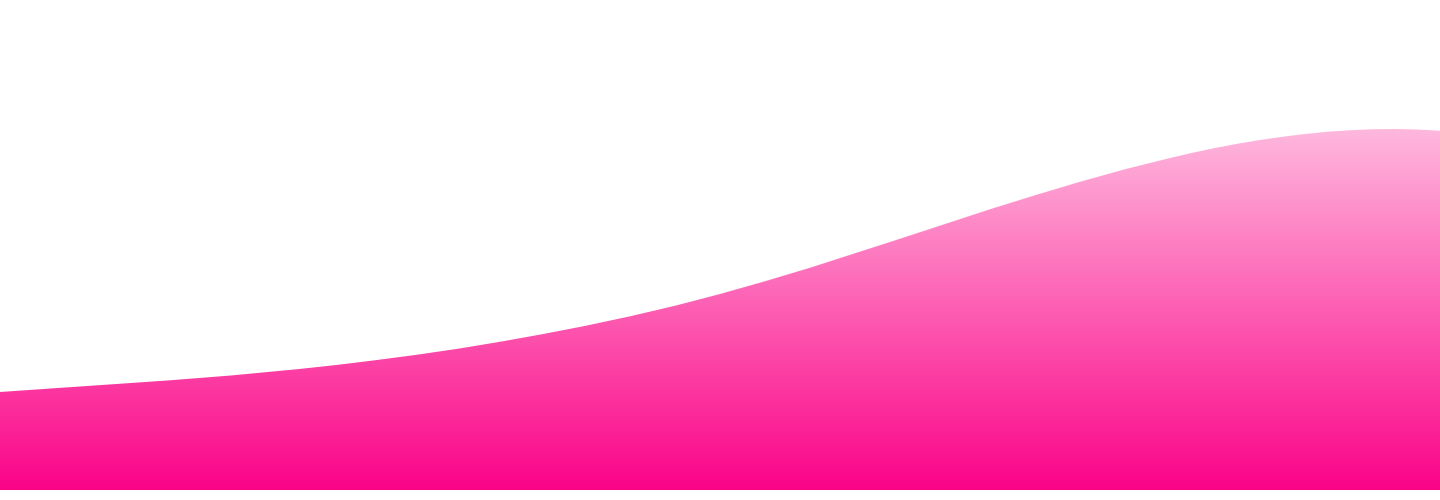
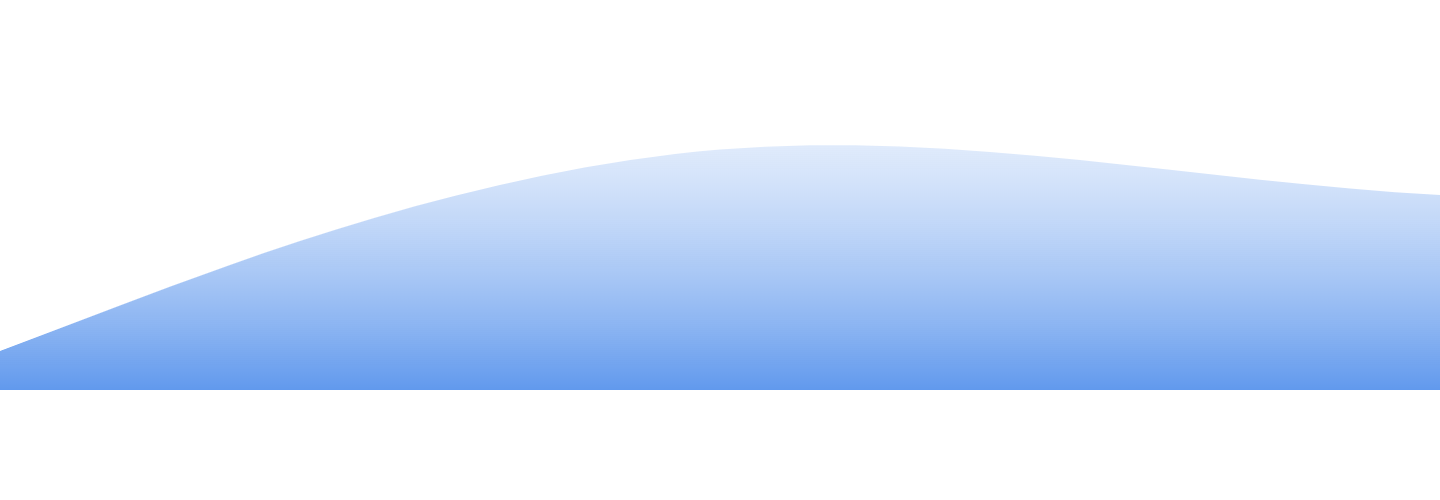
fix image

diff --git a/resources/scss/partials/_dashboard.scss b/resources/scss/partials/_dashboard.scss
@@ -32,10 +32,16 @@ body {
   position: fixed;
   width: 300px;
   height: 100%;
-  // background: var(--blue);
-  background-image: url('https://wallpapers.com/images/hd/hot-air-balloon-above-ocean-art-c50cs3rcasevsi3u.jpg');
+  // background: linear-gradient(0deg, #96ACCD 20%, #569aff 100%);
+
+  // background: rgb(146,182,238);
+  // background: -moz-linear-gradient(0deg, rgba(146,182,238,1) 29%, rgba(71,140,246,1) 100%);
+  // background: -webkit-linear-gradient(0deg, rgba(146,182,238,1) 29%, rgba(71,140,246,1) 100%);
+  // background: linear-gradient(0deg, rgba(146,182,238,1) 29%, rgba(71,140,246,1) 100%);
+  // filter: progid:DXImageTransform.Microsoft.gradient(startColorstr="#92b6ee",endColorstr="#478cf6",GradientType=1);
+  background-image: url('https://dynamic-media-cdn.tripadvisor.com/media/photo-o/11/52/5e/49/charbonnier-mongolfiere.jpg?w=1200&h=1200&s=1');
   // border-left: 10px solid var(--blue);
-  background-position: center;
+  background-position:right;
   background-size: cover;
   background-repeat: no-repeat;
   transition: 0.5s;
@@ -313,7 +319,7 @@ body {
     height: 50px;
     width: 50px;
     border-radius: 100%;
-    background-color: #ff29d1;
+    background-color: #1795ce;
     box-shadow: 0px 0px 5px 5px rgba(0, 0, 0, 0.2);
     z-index: 100000;
 

diff --git a/resources/scss/partials/stops/_modalEdit.scss b/resources/scss/partials/stops/_modalEdit.scss
@@ -23,10 +23,10 @@
         cursor: pointer;
     }
     .my-bg-modal {
-        background-image: url("https://images.unsplash.com/photo-1476514525535-07fb3b4ae5f1?fm=jpg&q=60&w=3000&ixlib=rb-4.0.3&ixid=M3wxMjA3fDB8MHxleHBsb3JlLWZlZWR8Nnx8fGVufDB8fHx8fA%3D%3D");
-        background-size: cover;
-        background-position: center;
-        background-repeat: no-repeat;
+        // background-image: url("https://images.unsplash.com/photo-1476514525535-07fb3b4ae5f1?fm=jpg&q=60&w=3000&ixlib=rb-4.0.3&ixid=M3wxMjA3fDB8MHxleHBsb3JlLWZlZWR8Nnx8fGVufDB8fHx8fA%3D%3D");
+        // background-size: cover;
+        // background-position: center;
+        // background-repeat: no-repeat;
         width: 100%;
     }
     .my-bg {

diff --git a/resources/scss/partials/stops/_rating.scss b/resources/scss/partials/stops/_rating.scss
@@ -73,7 +73,7 @@
         text-align: center;
         border-color: cornflowerblue;
         border-radius: 15px;
-        background-color: #229BE9;
+        background-color: #68a1f6;
         position: relative;
         z-index: 111;
         h2 {
@@ -165,7 +165,7 @@
     }
 
     .rating-wrap .my-btn button {
-        background-color: #FB319D;
+        background-color: #3B3B3B;
         width: 40%;
         padding: 1rem 0;
         border-radius: 20px;
@@ -178,8 +178,8 @@
 
     .rating-wrap .my-btn button:hover {
         transition: 0.4s;
-        background-color: #FDA2D3;
-        color: black;
+        background-color: rgb(0, 0, 0);
+        color: rgb(255, 255, 255);
     }
 }
 

diff --git a/resources/scss/partials/_welcome.scss b/resources/scss/partials/_welcome.scss
@@ -1,12 +1,16 @@
 body{
 
-    background-image: url('/public/img/R.png');
+    // background-image: url('/public/img/R.png');
     background-size: cover;
     background-position: center;
     background-repeat: no-repeat;
 }
 #welcome-page{
-    // height: 100%;
+    background-image: url('/public/img/R.png');
+    background-size: cover;
+    background-position: center;
+    background-repeat: no-repeat;
+    height: 100%;
 
     *,
     *:before,

diff --git a/resources/scss/partials/auth/_register.scss b/resources/scss/partials/auth/_register.scss
@@ -1,6 +1,6 @@
 .parkside {
 
-    height: calc(100vh - 80px);
+    height: calc(100vh);
     // background-color: #080710;
     background-image: url('/public/img/R.png');
     background-size: cover;

diff --git a/resources/scss/partials/auth/_login.scss b/resources/scss/partials/auth/_login.scss
@@ -9,7 +9,7 @@
   }
 
   .wrapper{
-    height: calc(100vh - 80px);
+    height: 100vh;
     // background-color: #080710;
     background-image: url('/public/img/R.png');
     background-size: cover;

diff --git a/resources/views/components/ratingCard.blade.php b/resources/views/components/ratingCard.blade.php
@@ -6,10 +6,11 @@
     $reviewText = $firstRating ? $firstRating->review : '';
 @endphp
 
-<div id="ratingCardWrapper-{{ $event->id }}" class="{{ $firstRating ? '' : 'd-none' }}">
-    <section id="star-values">
-        <h3 class="text-center fs-1">La tua recensione</h3>
-        <span class="star__container">
+<div id="ratingCardWrapper-{{ $event->id }}" class="{{ $firstRating ? '' : 'd-none' }}" class="mt-5">
+    <section id="star-values" class="position-relative pb-3 ">
+        <img class="wave position-absolute w-100" style="height: 250px ; z-index:0 ; bottom:-6rem" src="{{ asset('img/wave-pink.png') }}">
+        <h3 class="text-center fs-1 position-relative z-3">La tua recensione</h3>
+        <span class="star__container pb-3">
             <div class="rating_star">
                 @for ($i = 1; $i <= 5; $i++)
                     <label class="star__item {{ $i <= $ratingValue ? 'gold' : '' }}"
@@ -26,39 +27,42 @@
 {{--/ contenitore stelle --}}
 
 {{-- contenitore form --}}
-<div class="my-wrapper-star {{ $firstRating ? 'd-none' : '' }}" id="ratingComponentWrapper-{{ $stop }}">
-    <div class="rating-wrap">
-        <h2 class="text-white">Aggiungi una recensione</h2>
-        <div class="center">
-            <form data-url-rating="{{ route('admin.ratings.store') }}" class="form-rating d-flex flex-column">
-                <fieldset class="rating ms-auto me-auto">
-                    <input type="radio" id="star5" name="rating" value="5" class="star-input" />
-                    <label for="star5" class="full" title="Awesome"></label>
-                    <input type="radio" id="star4" name="rating" value="4" class="star-input" />
-                    <label for="star4" class="full"></label>
-                    <input type="radio" id="star3" name="rating" value="3" class="star-input" />
-                    <label for="star3" class="full"></label>
-                    <input type="radio" id="star2" name="rating" value="2" class="star-input" />
-                    <label for="star2" class="full"></label>
-                    <input type="radio" id="star1" name="rating" value="1" class="star-input" />
-                    <label for="star1" class="full"></label>
-                    <input type="hidden" name="trip_id" value="{{ $trip }}">
-                    <input type="hidden" name="stop_id" value="{{ $stop }}">
-                </fieldset>
-                <header>
-                    <div></div>
-                </header>
-                <div class="textarea d-none">
-                    <textarea name="review" id="review" class="review" cols="30"></textarea>
-                </div>
-                <h4 id="rating-value" class="rating-value" class="my-3"></h4>
-                <div class="my-btn my-3">
-                    <div>
-                        <button type="submit" id="submit-btn" class="">Vota</button>
+<div class="pb-4">
+    <div class="my-wrapper-star {{ $firstRating ? 'd-none' : '' }}" id="ratingComponentWrapper-{{ $stop }}" class="position-relative">
+        <img class="wave position-absolute w-100" style="height: 350px ; z-index:0 ; bottom:-8rem" src="{{ asset('img/wave-pink.png') }}">
+        <div class="rating-wrap pb-3">
+            <h2 class="text-white">Aggiungi una recensione</h2>
+            <div class="center">
+                <form data-url-rating="{{ route('admin.ratings.store') }}" class="form-rating d-flex flex-column">
+                    <fieldset class="rating ms-auto me-auto">
+                        <input type="radio" id="star5" name="rating" value="5" class="star-input" />
+                        <label for="star5" class="full" title="Awesome"></label>
+                        <input type="radio" id="star4" name="rating" value="4" class="star-input" />
+                        <label for="star4" class="full"></label>
+                        <input type="radio" id="star3" name="rating" value="3" class="star-input" />
+                        <label for="star3" class="full"></label>
+                        <input type="radio" id="star2" name="rating" value="2" class="star-input" />
+                        <label for="star2" class="full"></label>
+                        <input type="radio" id="star1" name="rating" value="1" class="star-input" />
+                        <label for="star1" class="full"></label>
+                        <input type="hidden" name="trip_id" value="{{ $trip }}">
+                        <input type="hidden" name="stop_id" value="{{ $stop }}">
+                    </fieldset>
+                    <header>
+                        <div></div>
+                    </header>
+                    <div class="textarea d-none">
+                        <textarea name="review" id="review" class="review" cols="30"></textarea>
                     </div>
-                </div>
-                <div class="error text-danger fs-4"></div>
-            </form>
+                    <h4 id="rating-value" class="rating-value" class="my-3"></h4>
+                    <div class="my-btn my-3">
+                        <div>
+                            <button type="submit" id="submit-btn" class="">Vota</button>
+                        </div>
+                    </div>
+                    <div class="error text-danger fs-4"></div>
+                </form>
+            </div>
         </div>
     </div>
 </div>

diff --git a/resources/views/components/ContentStopShow.blade.php b/resources/views/components/ContentStopShow.blade.php
@@ -29,9 +29,11 @@
     </x-modalNotes>
 
     {{-- container con valutazione --}}
-    <div id="ratingComponentWrapper" class="my-bg-rating py-5">
-        <img class="wave position-absolute w-100" style="height: 300px ; z-index:0" src="{{ asset('img/wave-pink.png') }}">
-        <x-ratingCard :event="$event" :trip="$event->id_trip" :stop="$event->id" />
+    <div id="ratingComponentWrapper" class="my-bg-rating">
+        {{-- <img class="wave position-absolute w-100" style="height: 300px ; z-index:0" src="{{ asset('img/wave-pink.png') }}"> --}}
+        <div class="mt-2">
+            <x-ratingCard :event="$event" :trip="$event->id_trip" :stop="$event->id"/>
+        </div>
     </div>
 </footer>
 </section>
